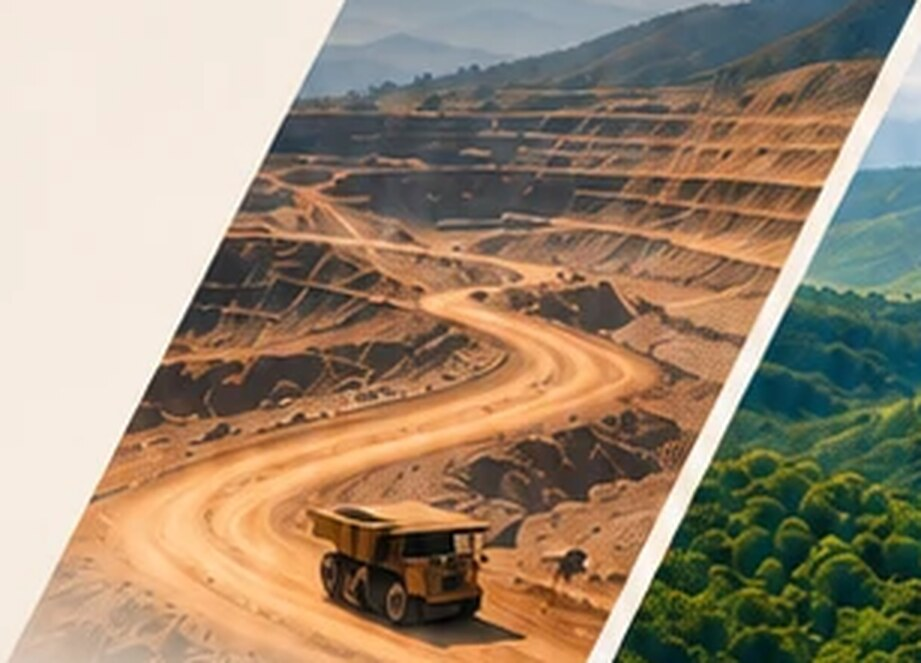
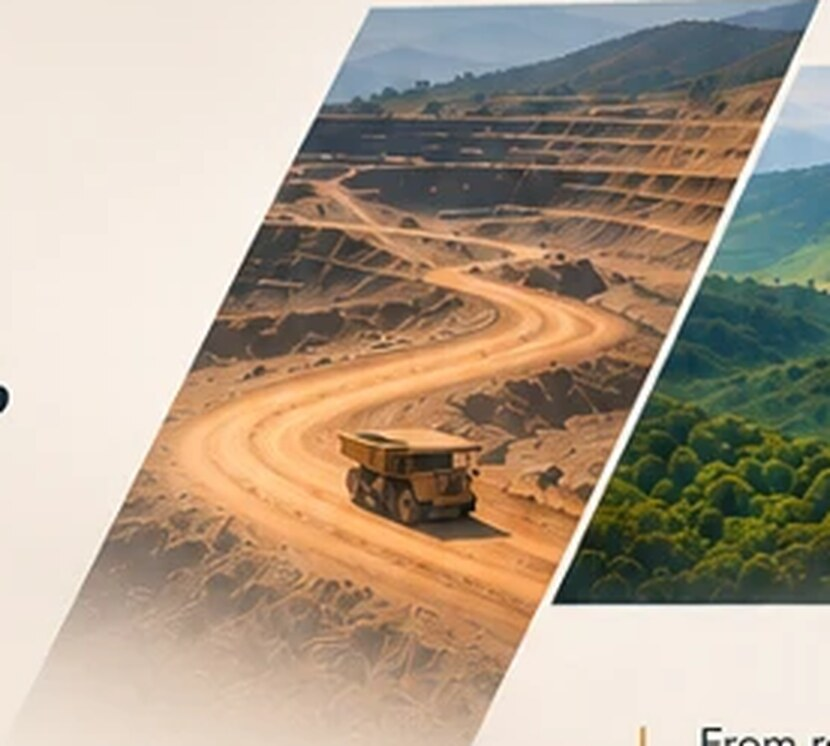
Rebuild Our Focus panels to the supplied artwork: three sizes, fade, gold hairline
Claude-Session: https://claude.ai/code/session_01D5NRjjUajptEDKecgGacwm

diff --git a/css/styles.css b/css/styles.css
@@ -97,14 +97,17 @@ p { margin: 0 0 1em; }
 
 /* ---------- 2 · our focus ---------- */
 .focus { position: relative; padding: clamp(120px, 14vw, 200px) 0 clamp(90px, 10vw, 150px); }
-.focus__grid { display: grid; grid-template-columns: .85fr 2fr; gap: 40px clamp(30px, 5vw, 80px); align-items: center; }
+.focus__grid { display: grid; grid-template-columns: .75fr 2fr; gap: 30px clamp(30px, 5vw, 80px); align-items: center; }
 .focus__text { padding-top: 10px; }
-.focus__panels { position: relative; aspect-ratio: 701 / 280; }
-.panel { position: absolute; margin: 0; width: 43.8%; aspect-ratio: 307 / 250; clip-path: polygon(37.5% 0, 100% 0, 62.5% 100%, 0 100%); }
-.panel--1 { left: 0; top: 6.9%; }
-.panel--2 { left: 28.5%; top: 3.6%; }
-.panel--3 { left: 56.1%; top: 0; }
-.focus__quote { grid-column: 2; max-width: 32em; margin: 0; padding-left: 22px; border-left: 1px solid var(--gold); font-size: 1.05rem; color: var(--ink); }
+/* three angled panels of different sizes, measured from the approved artwork */
+.focus__panels { position: relative; aspect-ratio: 604 / 248; }
+.panel { position: absolute; margin: 0; }
+.panel img { width: 100%; height: 100%; object-fit: cover; }
+.panel--1 { left: 0; top: 0; width: 45.7%; aspect-ratio: 276 / 248; clip-path: polygon(46.5% 0, 100% 0, 53.5% 100%, 0 100%); }
+.panel--2 { left: 30%; top: 8.9%; width: 41.2%; aspect-ratio: 249 / 176; clip-path: polygon(36.5% 0, 100% 0, 63.5% 100%, 0 100%); }
+.panel--3 { left: 57.3%; top: 0; width: 42.7%; aspect-ratio: 258 / 198; clip-path: polygon(39.5% 0, 100% 0, 60.5% 100%, 0 100%); }
+.focus__panels::after { content: ""; position: absolute; left: 31%; right: 6%; top: 79.8%; height: 1px; background: linear-gradient(90deg, var(--gold) 0%, var(--gold) 70%, rgba(201,162,74,0) 100%); opacity: .9; }
+.focus__quote { grid-column: 2; max-width: 30em; margin: -4% 0 0 33%; padding-left: 22px; border-left: 1px solid var(--gold); font-size: 1.05rem; color: var(--ink); }
 
 /* ---------- 3 · our approach ---------- */
 .approach { position: relative; min-height: 86vh; display: flex; align-items: center; color: var(--white); overflow: hidden; background: var(--teal); padding: 160px 0 200px; }
@@ -140,6 +143,8 @@ p { margin: 0 0 1em; }
   .hero__text { padding-top: 130px; padding-bottom: 300px; max-width: none; }
   .hero__map { right: 4vw; top: auto; bottom: 90px; width: min(60vw, 340px); }
     .focus__grid { grid-template-columns: 1fr; }
+  .focus__panels { width: calc(100% + 2 * var(--gutter) - 24px); margin-left: calc(-1 * var(--gutter) + 12px); }
+  .focus__quote { margin: 8px 0 0; max-width: none; }
   .focus__quote { grid-column: 1; }
   .approach__text { padding-left: var(--gutter); }
   .approach__text::before { left: -10%; }
